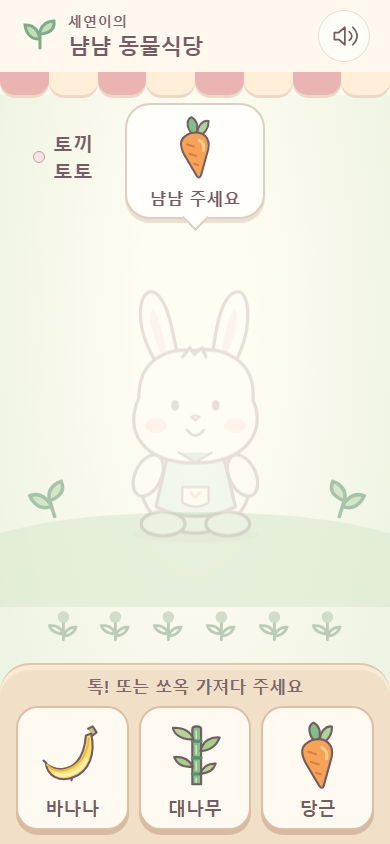
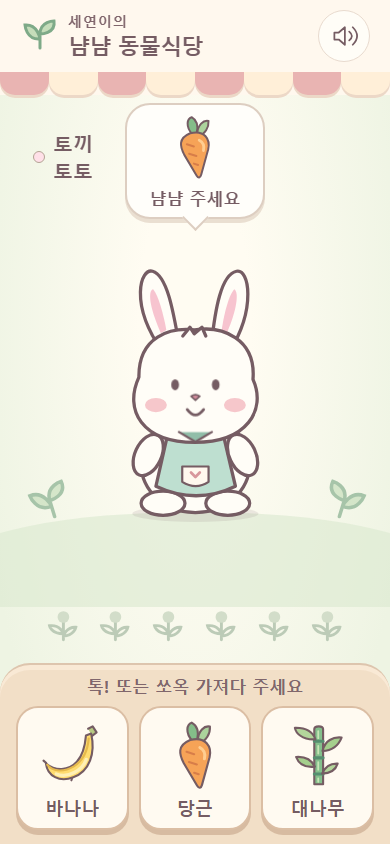
test: capture live screenshots after character entrance [skip ci]

Changed region(s): [[0.3385, 0.3081, 0.6769, 0.6469], [0.4308, 0.8318, 0.5538, 0.9858], [0.7385, 0.8318, 0.8923, 0.9858]]

diff --git a/docs/QA_REPORT.md b/docs/QA_REPORT.md
@@ -78,7 +78,7 @@
 - 게임: [세연이의 냠냠 동물식당](https://seungmin-park-psm1757.github.io/seyeon-animal-restaurant/), HTTPS.
 - 배포 버전: `dfd339a996e02d2d162d9cdb0aad75fc65211f88`. 공개 `build-info.json`과 일치했다. 이 문서·배포 검증 스크립트·증거 추가 커밋은 게임 코드를 변경하지 않는다.
 - [GitHub Actions 실행 37901709219](https://github.com/SeungMin-Park-psm1757/seyeon-animal-restaurant/actions/runs/37901709219): Linux에서도 단위 10개, E2E 16개 통과 후 Pages 배포 성공.
-- 2026-10-09 16:59 KST 공개 주소에서 Chromium 390×844: HTTP 200, 상단 제목 22px, 온라인 6회·재시작·오프라인 reload 후 6회·합동 축하 통과. Service Worker scope는 게임의 하위 경로와 일치, 모바일 console error/pageerror 없음.
+- 2026-10-09 17:01 KST 공개 주소에서 Chromium 390×844: HTTP 200, 상단 제목 22px, 온라인 6회·재시작·오프라인 reload 후 6회·합동 축하 통과. Service Worker scope는 게임의 하위 경로와 일치, 모바일 console error/pageerror 없음. 놀이 캡처는 캐릭터 등장 애니메이션의 불투명도 1을 기다린 뒤 저장했다.
 - 공개 주소의 1280×900 PC에서 회전 안내 없이 시작 통과. Codex 내장 브라우저에서도 공개 시작 화면과 오프라인 준비 안내를 확인했다.
 - 근거: [`qa/live-result.json`](../qa/live-result.json), [모바일 놀이](../qa/screenshots/live-390-play.png), [오프라인 완료](../qa/screenshots/live-390-offline-finished.png), [PC 놀이](../qa/screenshots/live-desktop-play.png).
 - 재현: `node qa/verify-live.mjs https://seungmin-park-psm1757.github.io/seyeon-animal-restaurant/ dfd339a996e02d2d162d9cdb0aad75fc65211f88`.
